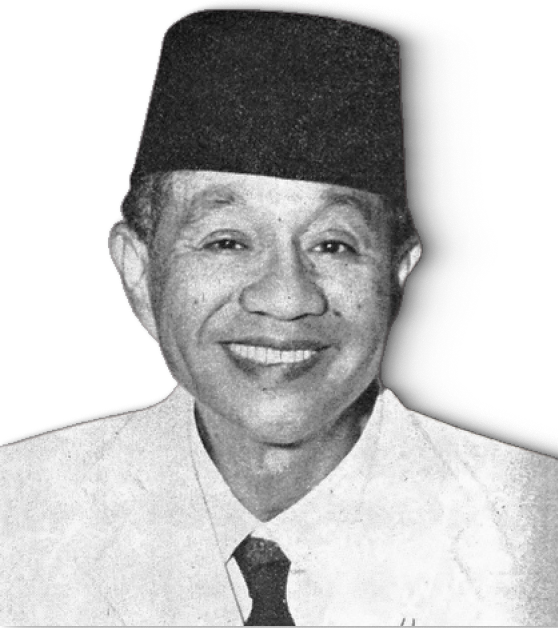
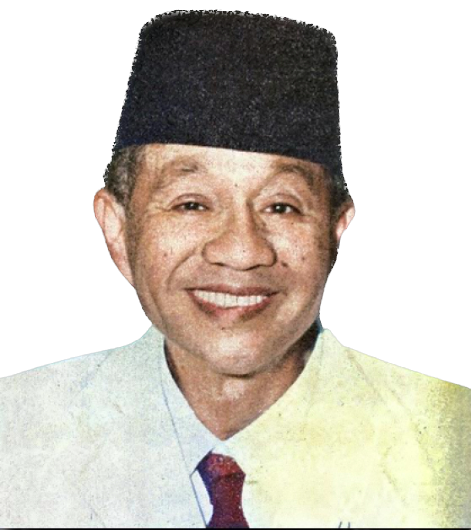
add colorize profile

diff --git a/src/pages/Pages3.jsx b/src/pages/Pages3.jsx
@@ -4,7 +4,7 @@ import Orang2 from "../images/gallery/ppki/abdulwachid.png";
 import Orang3 from "../images/gallery/ppki/irsoekarno.png";
 import Orang4 from "../images/gallery/ppki/radjiman.png";
 import Orang5 from "../images/gallery/ppki/RAAwiranata.png";
-import Orang6 from "../images/gallery/ppki/soetarjokartohadisutomo.png";
+import Orang6 from "../images/gallery/ppki/soetarjokartohadikusumo.png";
 import About1 from "../images/gallery/ppki/sidang1.jpeg";
 import About2 from "../images/gallery/ppki/sidang2.webp";
 import About3 from "../images/gallery/ppki/galery2.jpeg";
